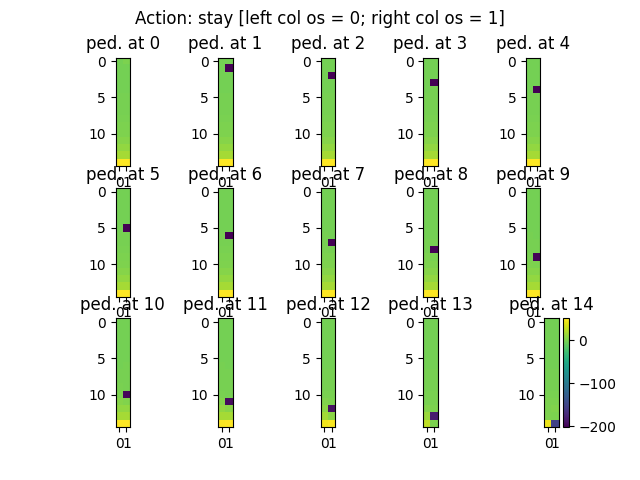
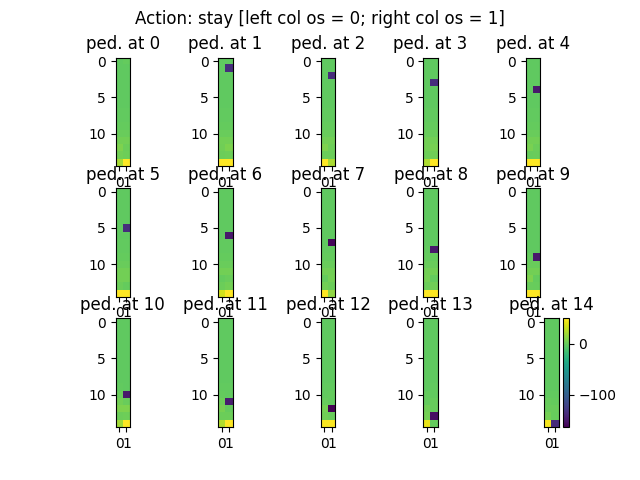
Softmax parameter tuning

diff --git a/driver.py b/driver.py
@@ -1,16 +1,19 @@
 from MDP import *
 from QLearning import *
 from eGreedy import *
+from Softmax import *
 import matplotlib.pyplot as plt
 from tqdm import tqdm
 
 def exploration(model : MDP, lr : float, meta : tuple, epoch : int):
     ql = QLearning(model, lr)
-    eg = eGreedy(model, meta)
+    # ex = eGreedy(model, meta)
+    ex = Softmax(meta)
+
 
     for _ in tqdm(np.arange(epoch)):
         while True:
-            a = eg.next_action(model.S.get_idx(), ql.Q) # sample action from exp. policy
+            a = ex.next_action(model.S.get_idx(), ql.Q) # sample action from exp. policy
             bsp, psp, osp = model.T.update(model.S, a) # next state
             r = model.R.reward(model.S, a) # get next reward
             ql.update(model.S.get_idx(), a, r, model.S.tup_to_idx(bsp, psp, osp)) # update ql
@@ -19,7 +22,7 @@ def exploration(model : MDP, lr : float, meta : tuple, epoch : int):
             else:
                 break
         model.S.reset()
-        eg.decay()
+        ex.decay()
     return ql.Q
 
 # Zach's visualization
@@ -88,13 +91,19 @@ def main():
     model = MDP(s0, A, cost, pr, g)
 
     lr = 0.2 # learning rate
-    meta = np.array([0.4, 0.9999], dtype = np.float64) # epsilon, decay rate
+
+    # e-greedy
+    # meta = np.array([0.4, 0.9999], dtype = np.float64) # epsilon, decay rate
+
+    # softmax
+    meta = (0.1, 1.012)  # precision parameter, precision factor (>decay = higher num)
+
     epoch = 1e5
     Q = exploration(model, lr, meta, epoch)
     file = input("Save Q to file [.npy]: ")
     np.save(file, Q)
 
-    visualize_1(model, Q, 15)
+    # visualize_1(model, Q, 15)
     viz(model, Q)
 
 

diff --git a/Softmax.py b/Softmax.py
@@ -3,15 +3,16 @@ import math
 from numpy import random as r
 
 class Softmax:
-    def __init__(self, l : float, a : float):
-        self._l = l  # precision paramter
-        self._a = a  # precision factor
+    def __init__(self, meta : tuple):
+        self._l = meta[0]  # precision paramter
+        self._a = meta[1]  # precision factor
 
     def next_action(self, s : int, Q):
-        weights = [math.exp(self._l * Q[s][0]), math.exp(self._l * Q[s][1])]
+        weights = [math.exp(self._l * (Q[s][0] / 100)), math.exp(self._l * (Q[s][1] / 100))]
         t = sum(weights)
         norm_weights = [i/t for i in weights]
         return r.choice([0,1], p=norm_weights)
     
     def decay(self):
-        self._l *= self._a
+        if self._l < 50:
+            self._l *= self._a
